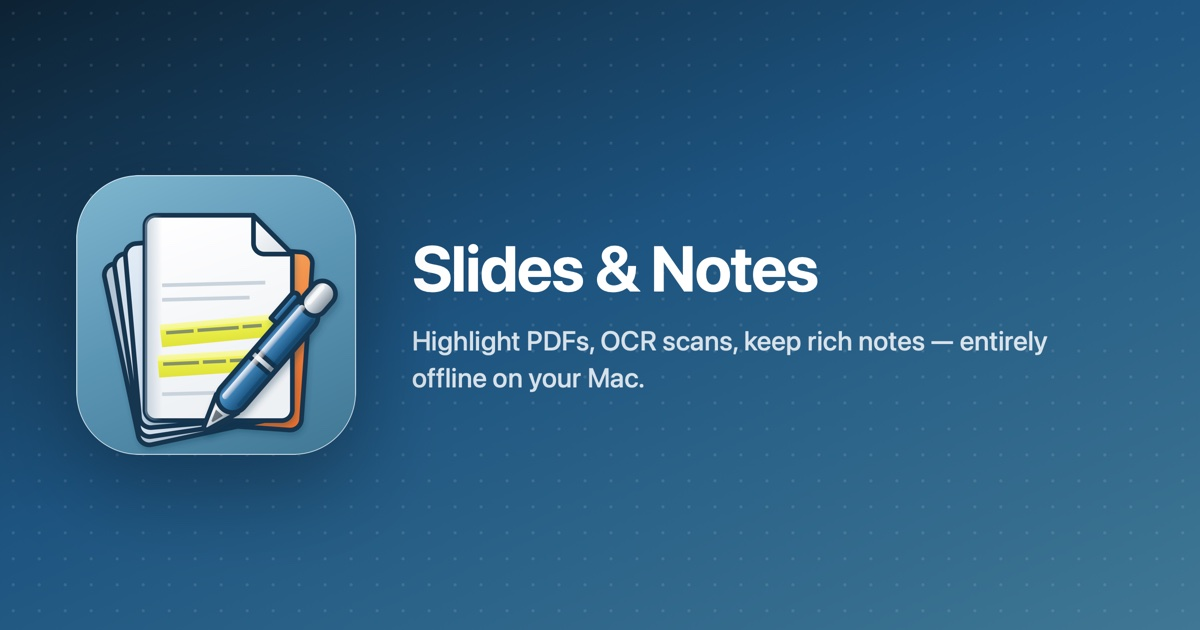
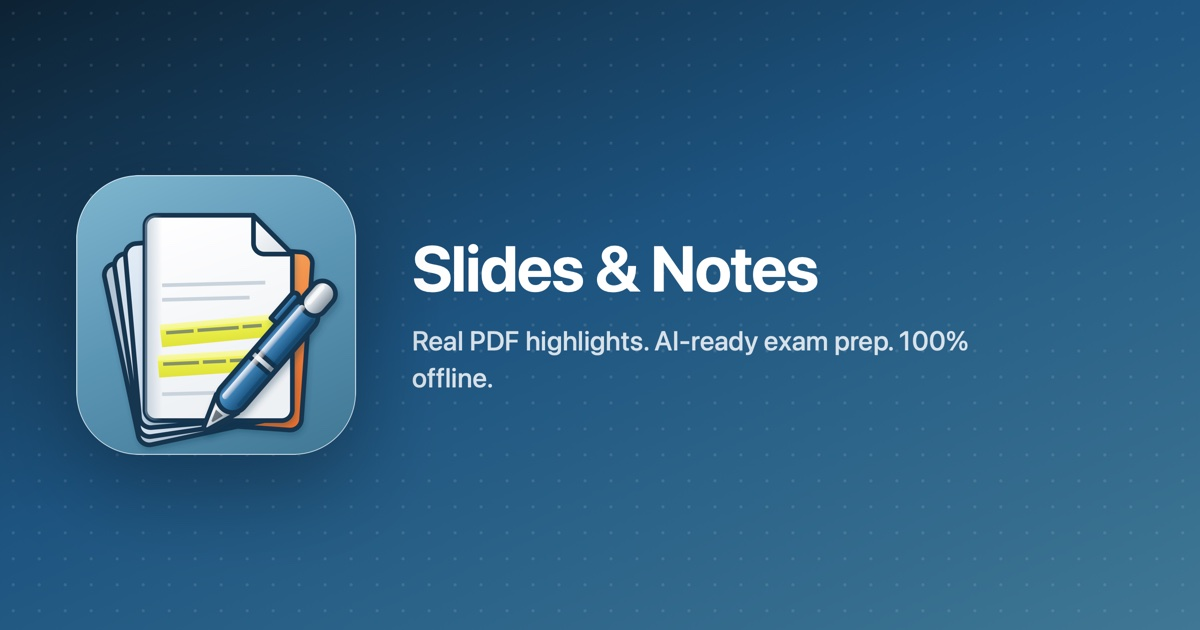
Rewrite title/meta tags and OG image around the actual USPs

Changed region(s): [[0.3392, 0.5127, 0.8942, 0.6333]]

diff --git a/index.html b/index.html
@@ -3,21 +3,21 @@
 <head>
 <meta charset="utf-8">
 <meta name="viewport" content="width=device-width, initial-scale=1">
-<title>Slides & Notes — study PDFs, offline, on Mac</title>
-<meta name="description" content="Highlight PDFs, run on-device OCR, keep rich notes and voice recordings, and export exam-prep material — entirely offline on your Mac. Free.">
+<title>Slides & Notes — Your lecture slides, actually yours</title>
+<meta name="description" content="Highlights stay real PDF annotations, not a proprietary format. Auto-OCR turns messy scans into AI-ready exam prep from what you actually highlighted. 100% offline, free, no account.">
 <link rel="icon" href="assets/favicon-32.png">
 <link rel="apple-touch-icon" href="assets/icon-180.png">
 
 <meta property="og:type" content="website">
-<meta property="og:title" content="Slides & Notes — study PDFs, offline, on Mac">
-<meta property="og:description" content="Highlight PDFs, run on-device OCR, keep rich notes and voice recordings — entirely offline on your Mac. Free.">
+<meta property="og:title" content="Your lecture slides, actually yours.">
+<meta property="og:description" content="Highlights stay real PDF annotations. Auto-OCR turns scans into AI-ready exam prep. 100% offline, free, no account.">
 <meta property="og:image" content="https://ariabehjat.github.io/slides-notes/assets/og.jpg">
 <meta property="og:image:width" content="1200">
 <meta property="og:image:height" content="630">
 <meta property="og:url" content="https://ariabehjat.github.io/slides-notes/">
 <meta name="twitter:card" content="summary_large_image">
-<meta name="twitter:title" content="Slides & Notes — study PDFs, offline, on Mac">
-<meta name="twitter:description" content="Highlight PDFs, run on-device OCR, keep rich notes and voice recordings — entirely offline on your Mac. Free.">
+<meta name="twitter:title" content="Your lecture slides, actually yours.">
+<meta name="twitter:description" content="Highlights stay real PDF annotations. Auto-OCR turns scans into AI-ready exam prep. 100% offline, free, no account.">
 <meta name="twitter:image" content="https://ariabehjat.github.io/slides-notes/assets/og.jpg">
 <style>
   :root{
